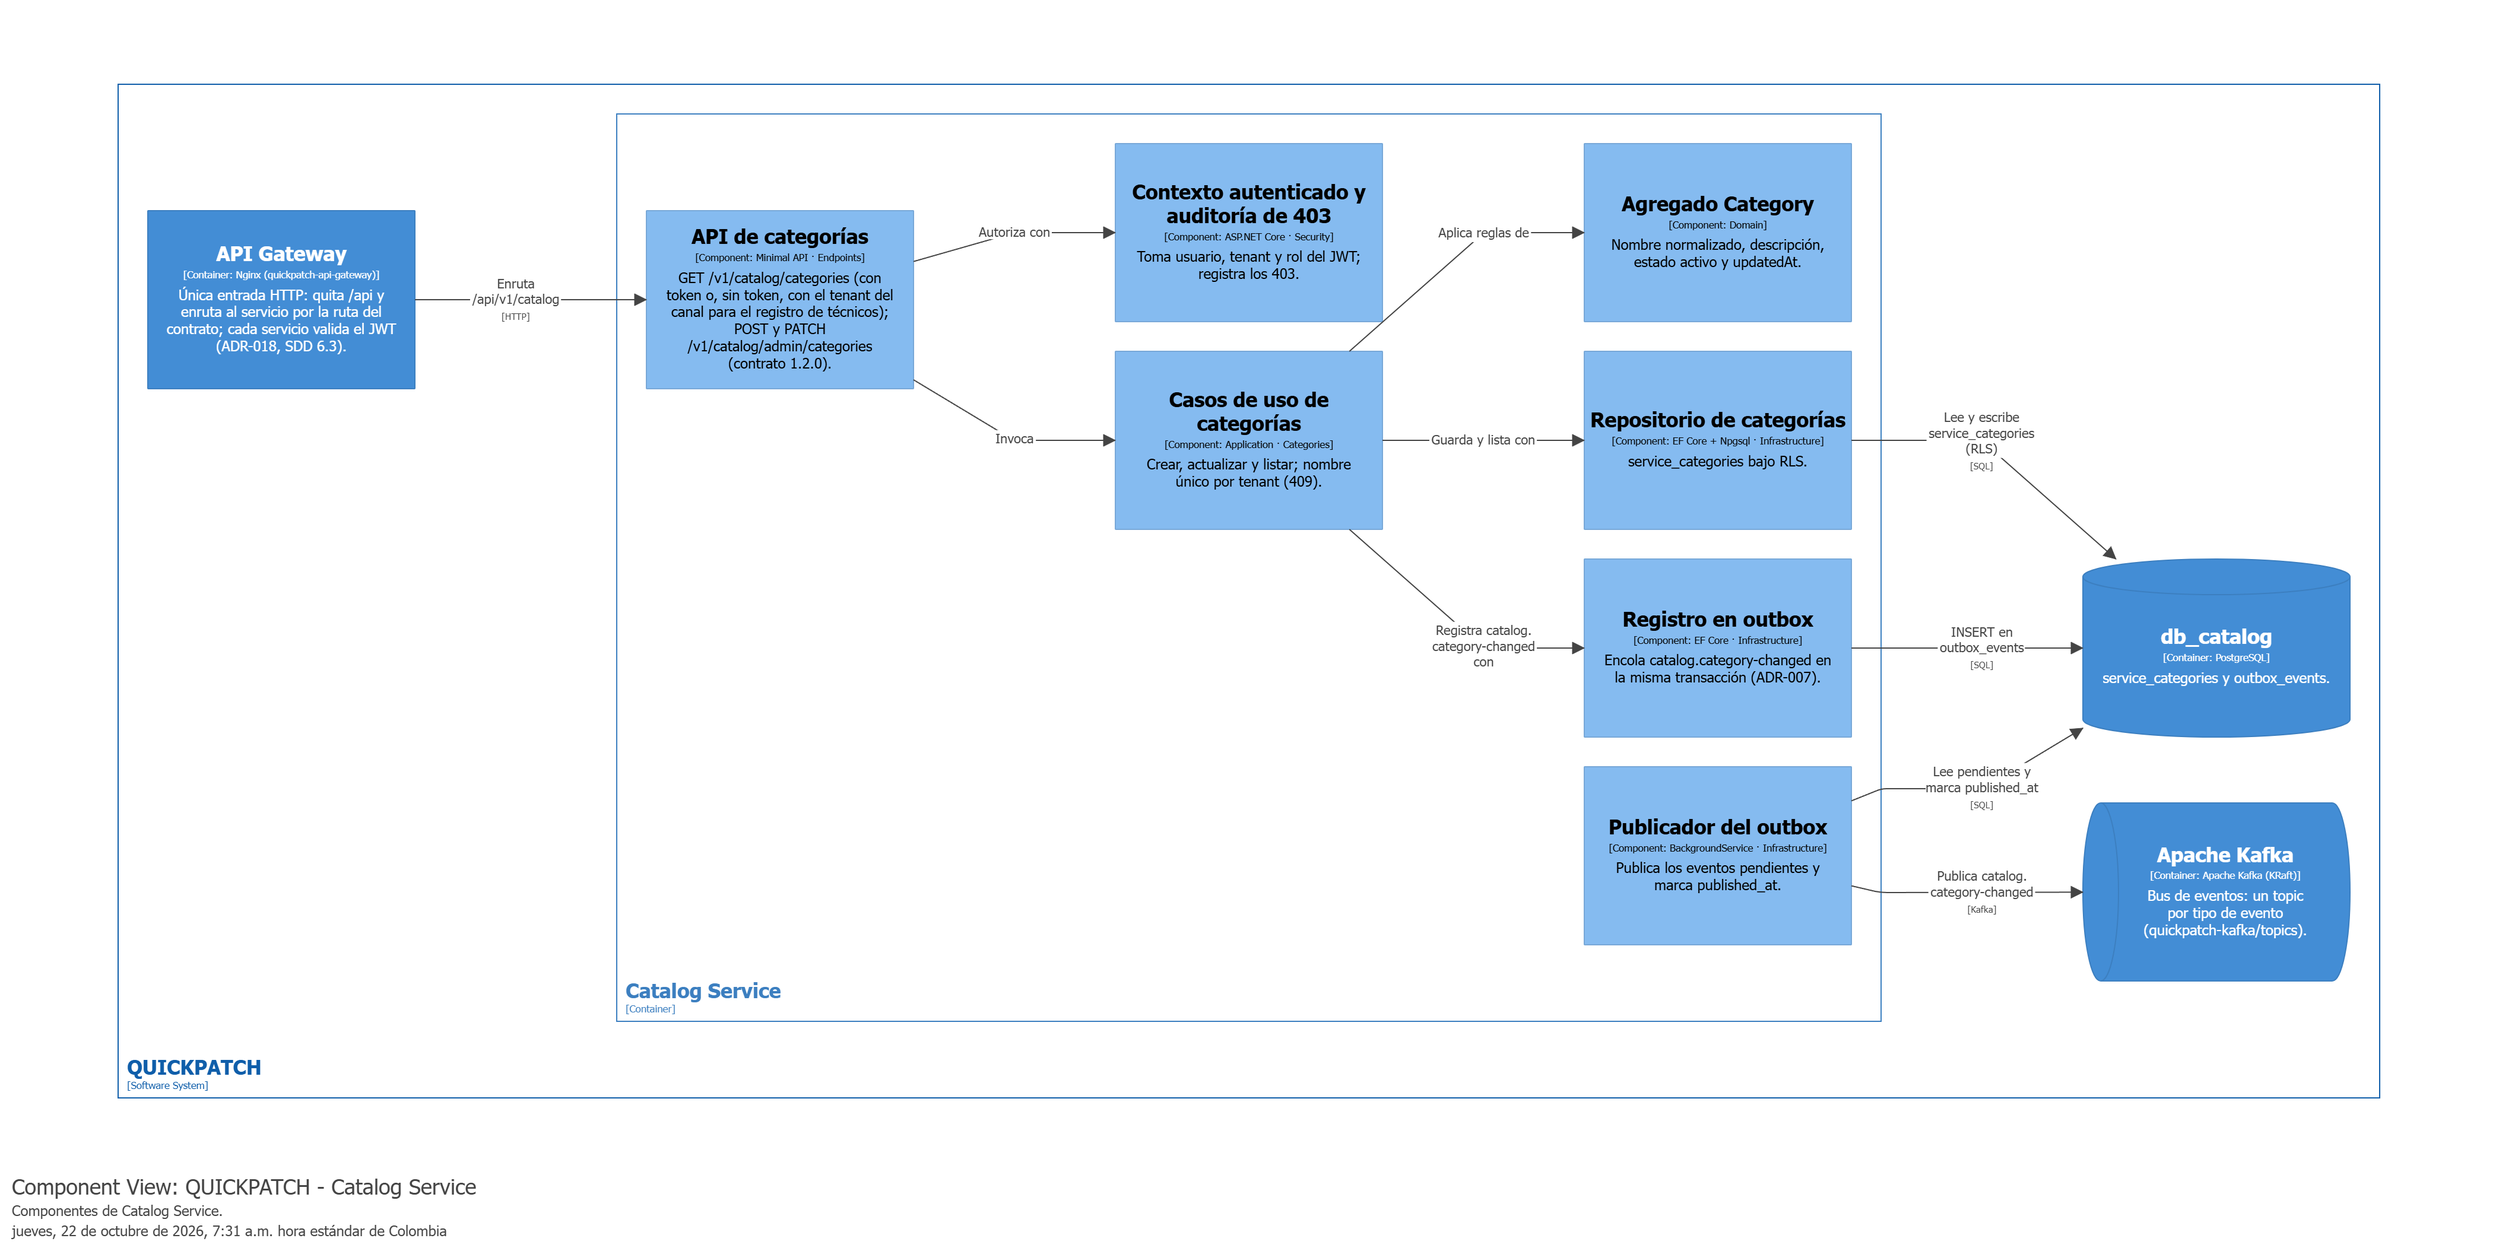
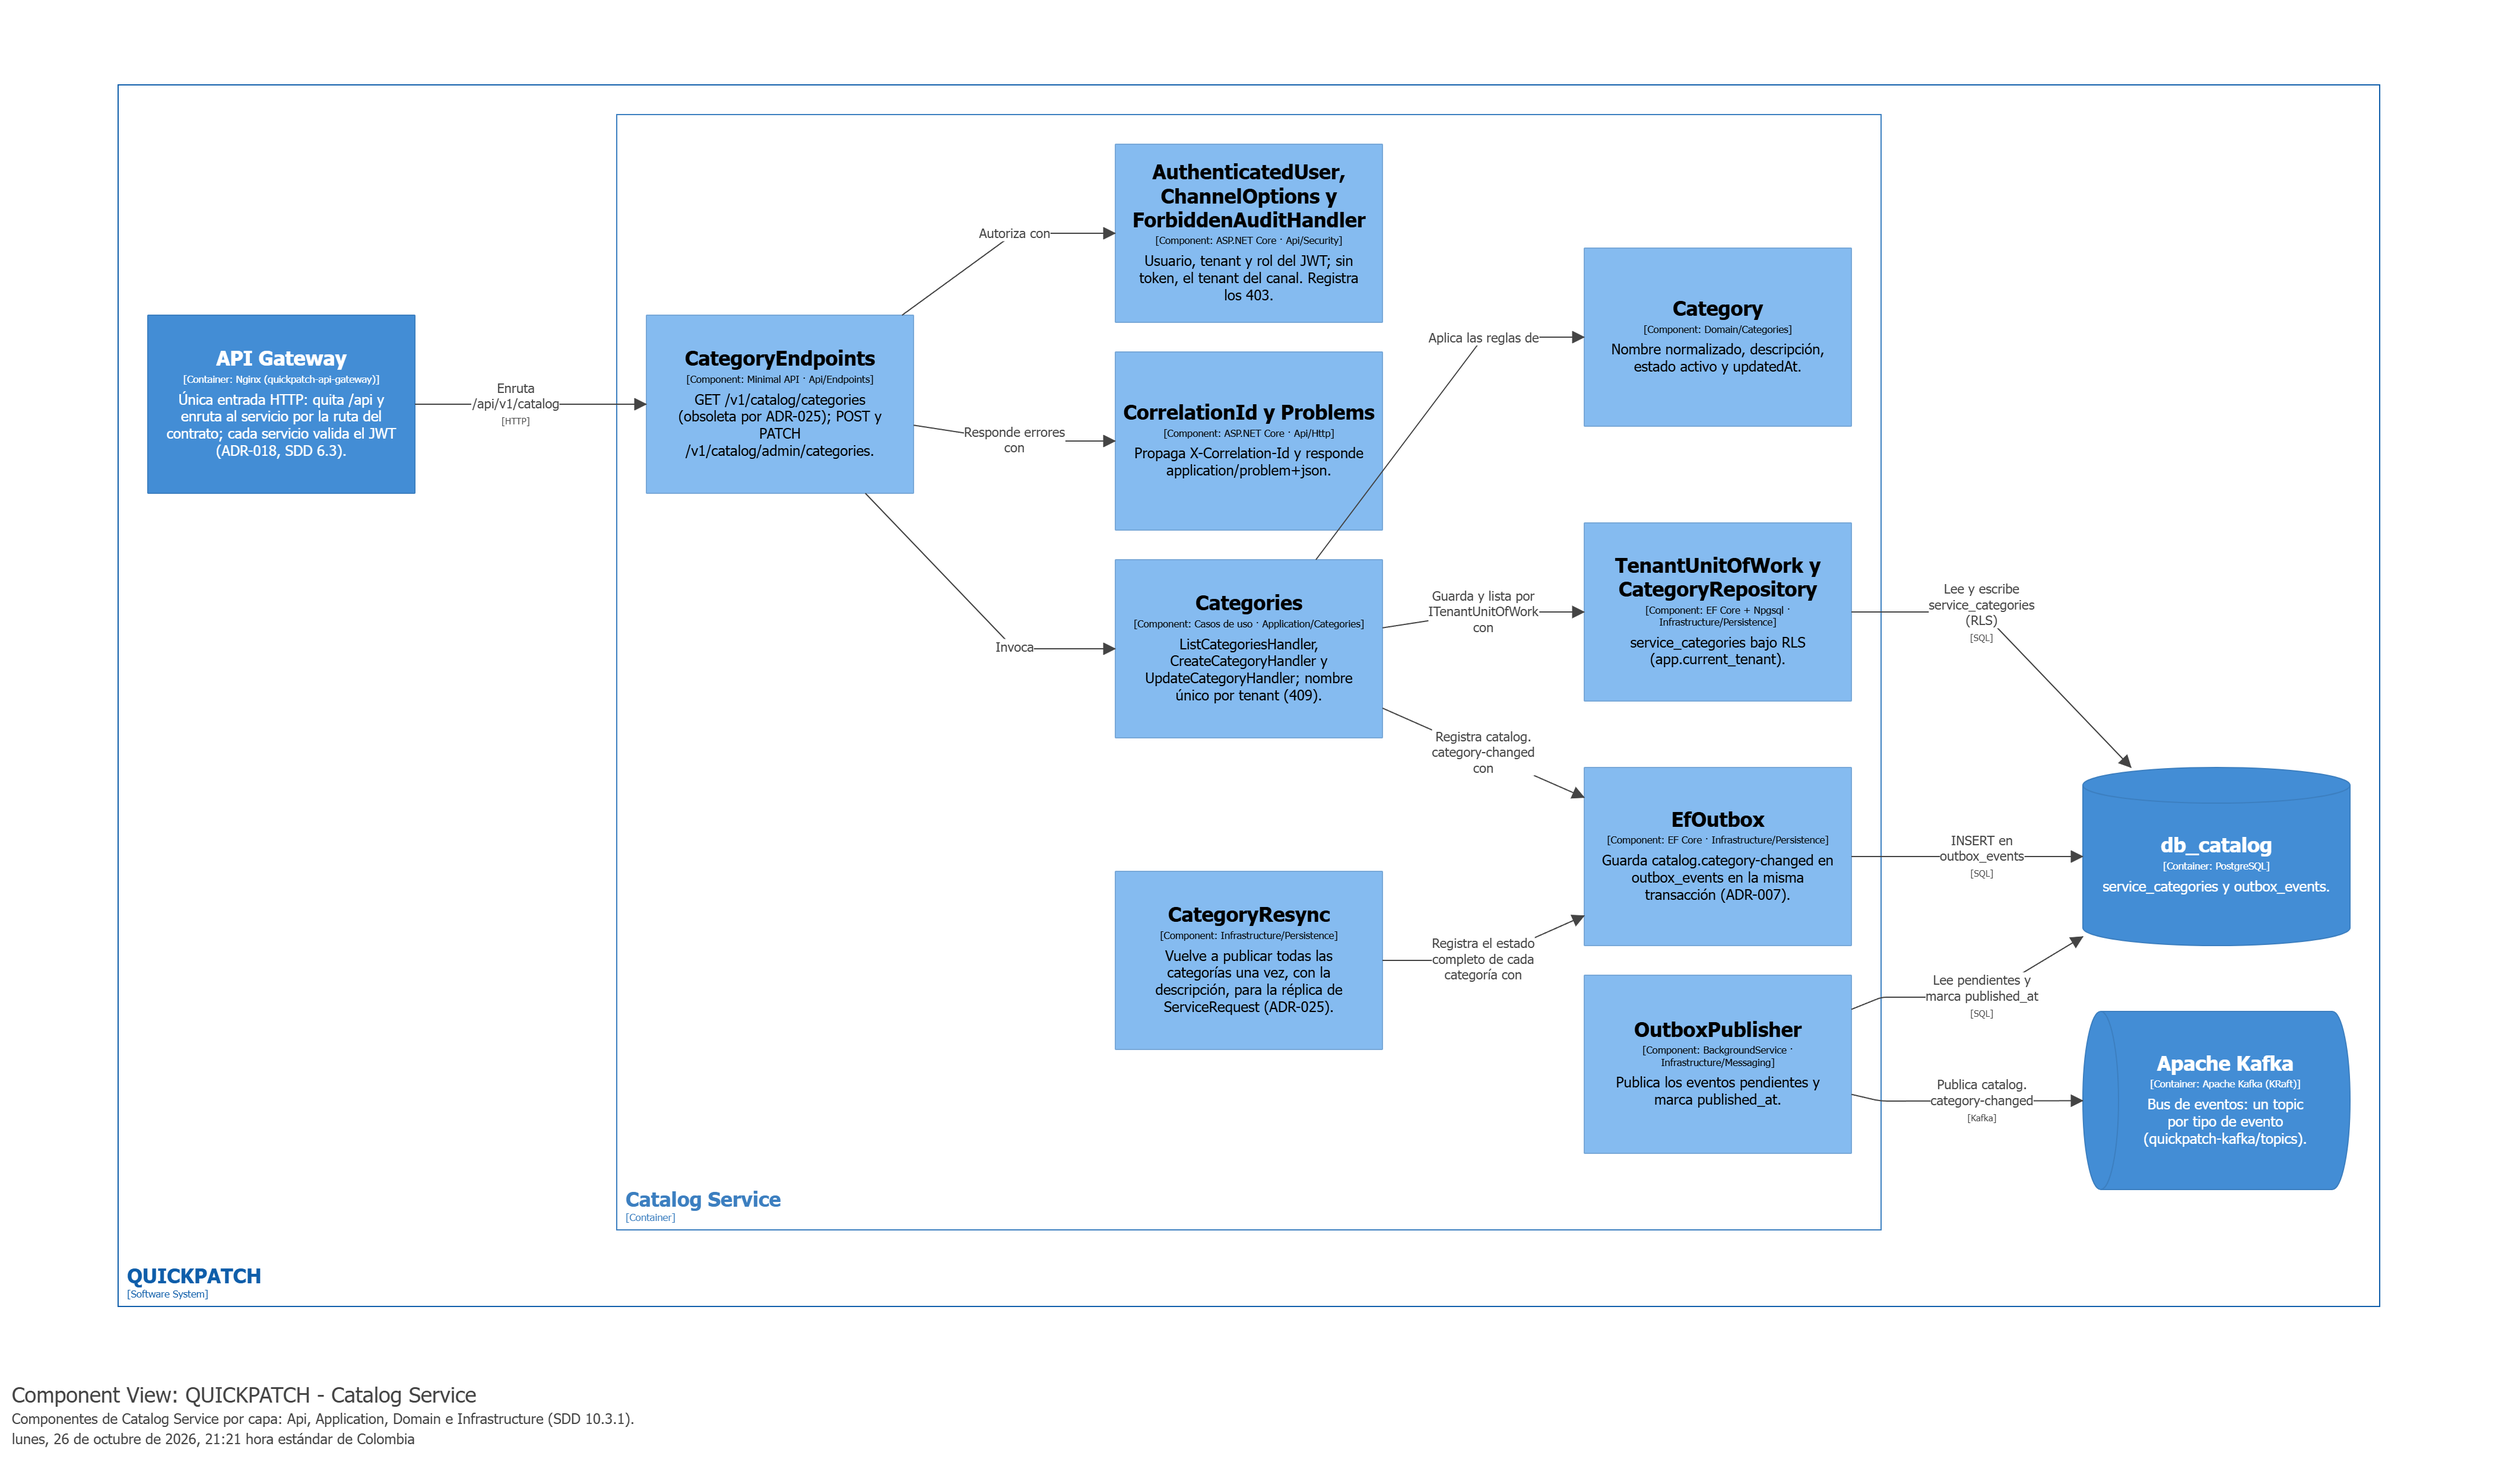
docs(sdd): componentes de Identity, Catalog, ServiceRequest y Payments con los nombres del código (SCRUM-581, SCRUM-582)

diff --git a/docs/architecture/SDD.md b/docs/architecture/SDD.md
@@ -311,6 +311,8 @@ Infrastructure -> Application / Domain mediante interfaces
 
 El detalle definitivo de proyectos, carpetas y paquetes debe quedar sincronizado con la sección 10.
 
+**Cómo leer los diagramas de componentes (SCRUM-581, SCRUM-582).** Los diagramas de Identity, Catalog, ServiceRequest y Payments (secciones 6.4, 6.6, 6.7 y 6.10) muestran el servicio por dentro, capa por capa: el endpoint (`Api/Endpoints`), el caso de uso (`Application/<agregado>`), el dominio, el repositorio con su `TenantUnitOfWork` y la base, y en Kafka el `EfOutbox`, el `OutboxPublisher` y los consumidores. Cada componente lleva el nombre de su clase o carpeta en `develop`, y la tecnología indica la ruta (por ejemplo, `Minimal API · Api/Endpoints`), así que se puede ir del diagrama al código sin traducir nombres. Lo que todavía no existe (la calificación de ServiceRequest y el webhook de la pasarela certificada) aparece punteado como «Planeado».
+
 ## 6.2 Aplicaciones cliente
 
 Estos diagramas abren los dos contenedores cliente de la Figura 3. Cada componente indica la carpeta del repositorio donde vive (sección 10.2) y corresponde al código de `develop`; los componentes con borde punteado están planeados.
